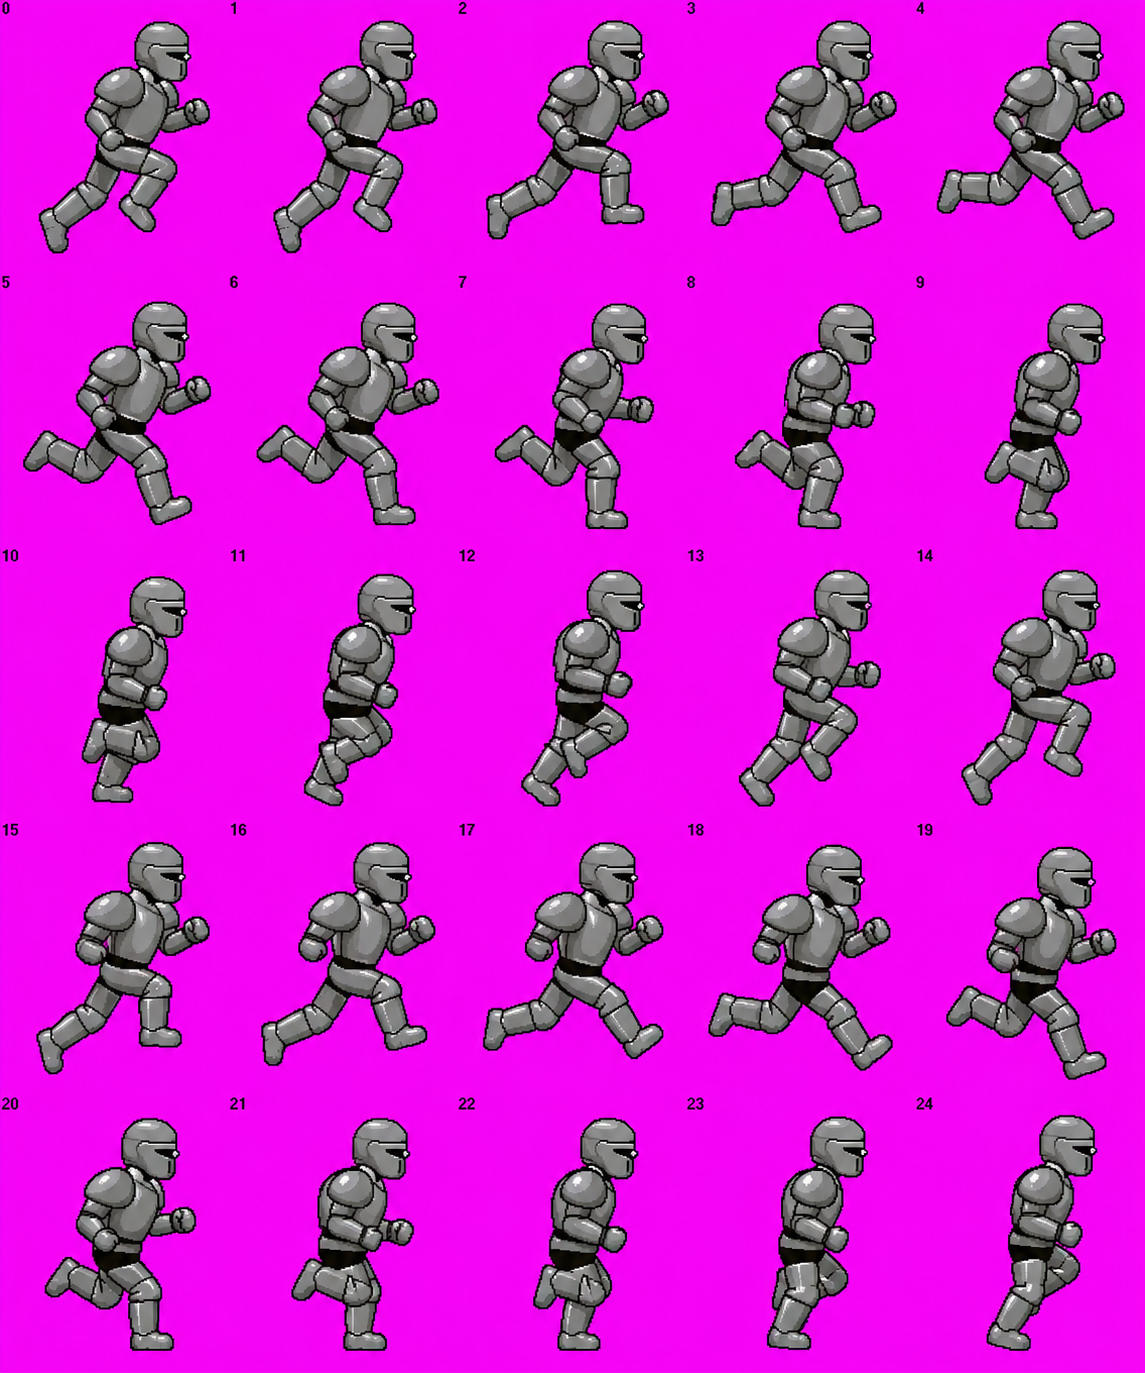
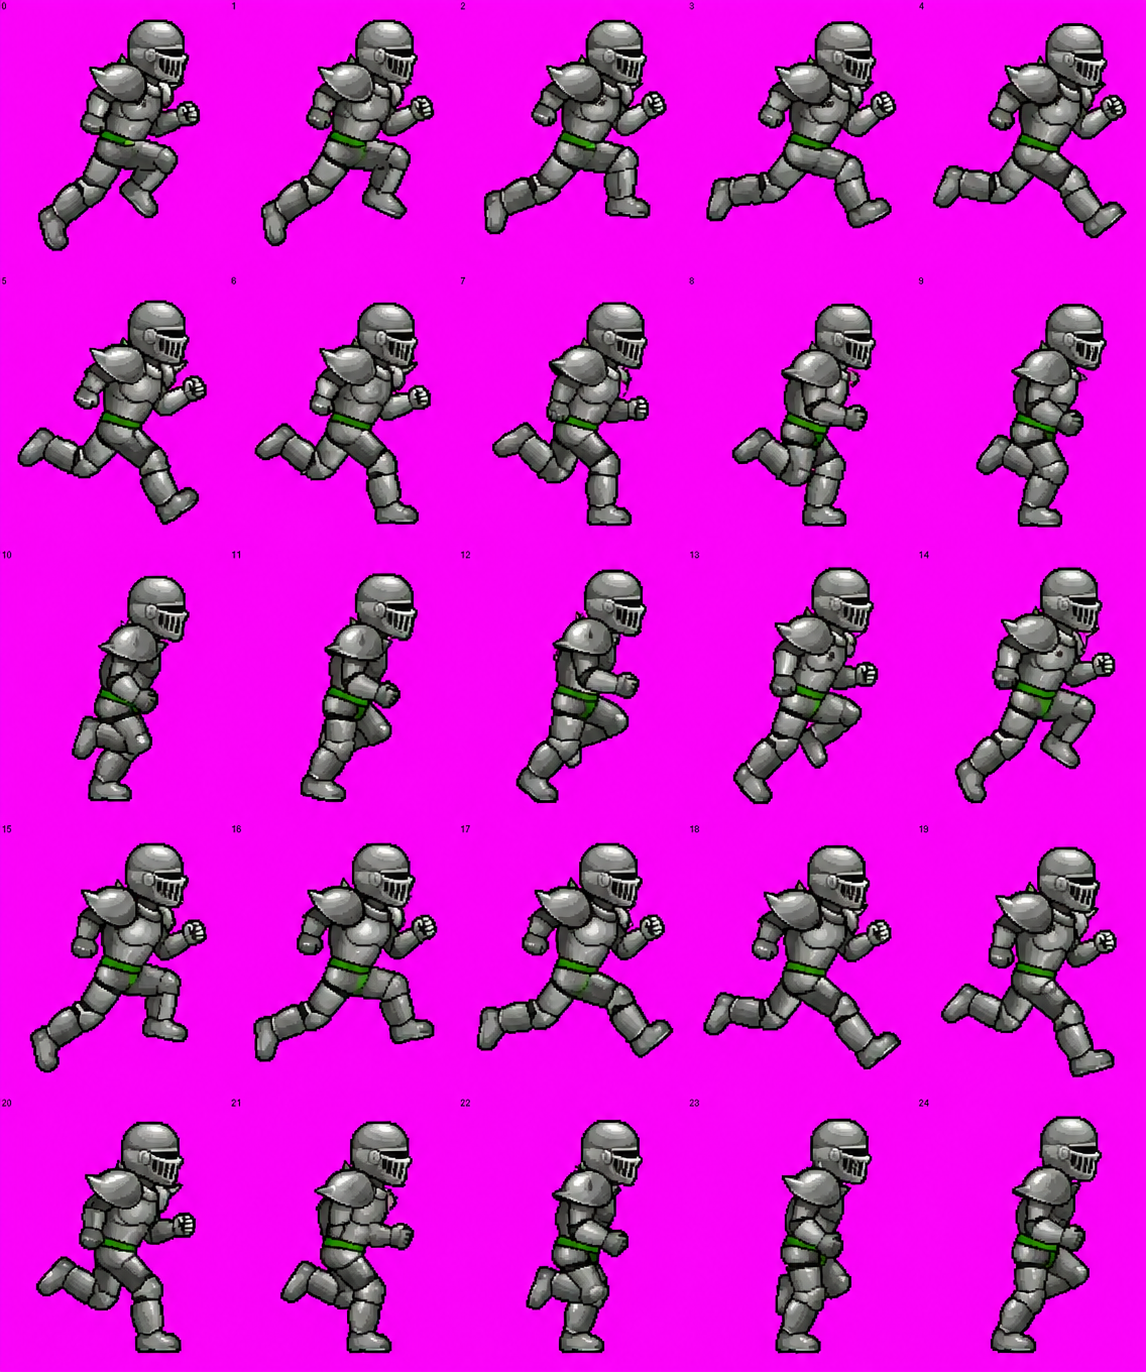
Gear: fresh east full-suit re-roll -- arm poke-out fixed (v2.3.525)
Re-rolled east sheet with the 'arm armor fully encloses the limb, no skin between
armor and arm' prompt line. Arms now covered through the whole swing; bigger
pauldrons, helmet, matte. Extracted chest 0.00-0.60 (helmet+pauldrons+arms+chest)
+ legs 0.56-0.97. Still east-only preview (other dirs = first-set steel).

diff --git a/src/rendering/gearSheets.js b/src/rendering/gearSheets.js
@@ -17,7 +17,7 @@ import { Rectangle, Texture } from 'pixi.js';
 
 const FRAME_W = 256;
 const FRAME_H = 256;
-const GEAR_VERSION = '2.3.524';
+const GEAR_VERSION = '2.3.525';
 
 /* `${slot}/${item}/${pose}/${dir}` -> [Texture] | 'loading' | [] (missing) */
 const _sheets = {};
